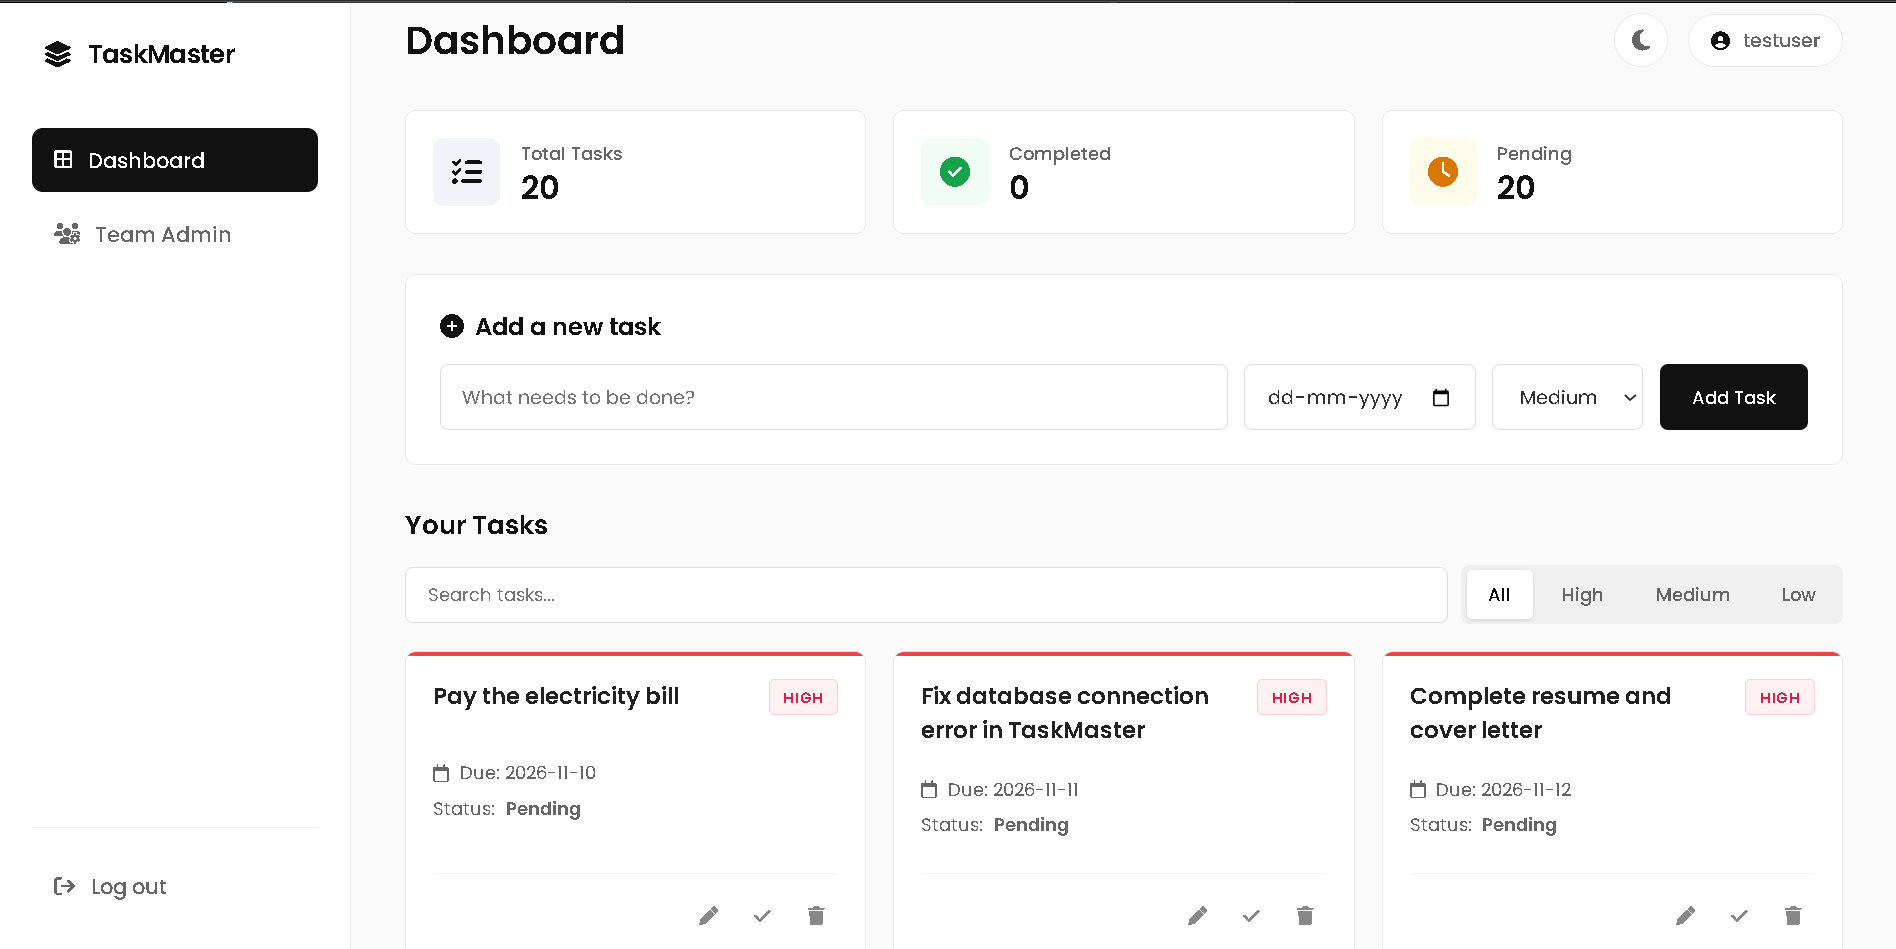
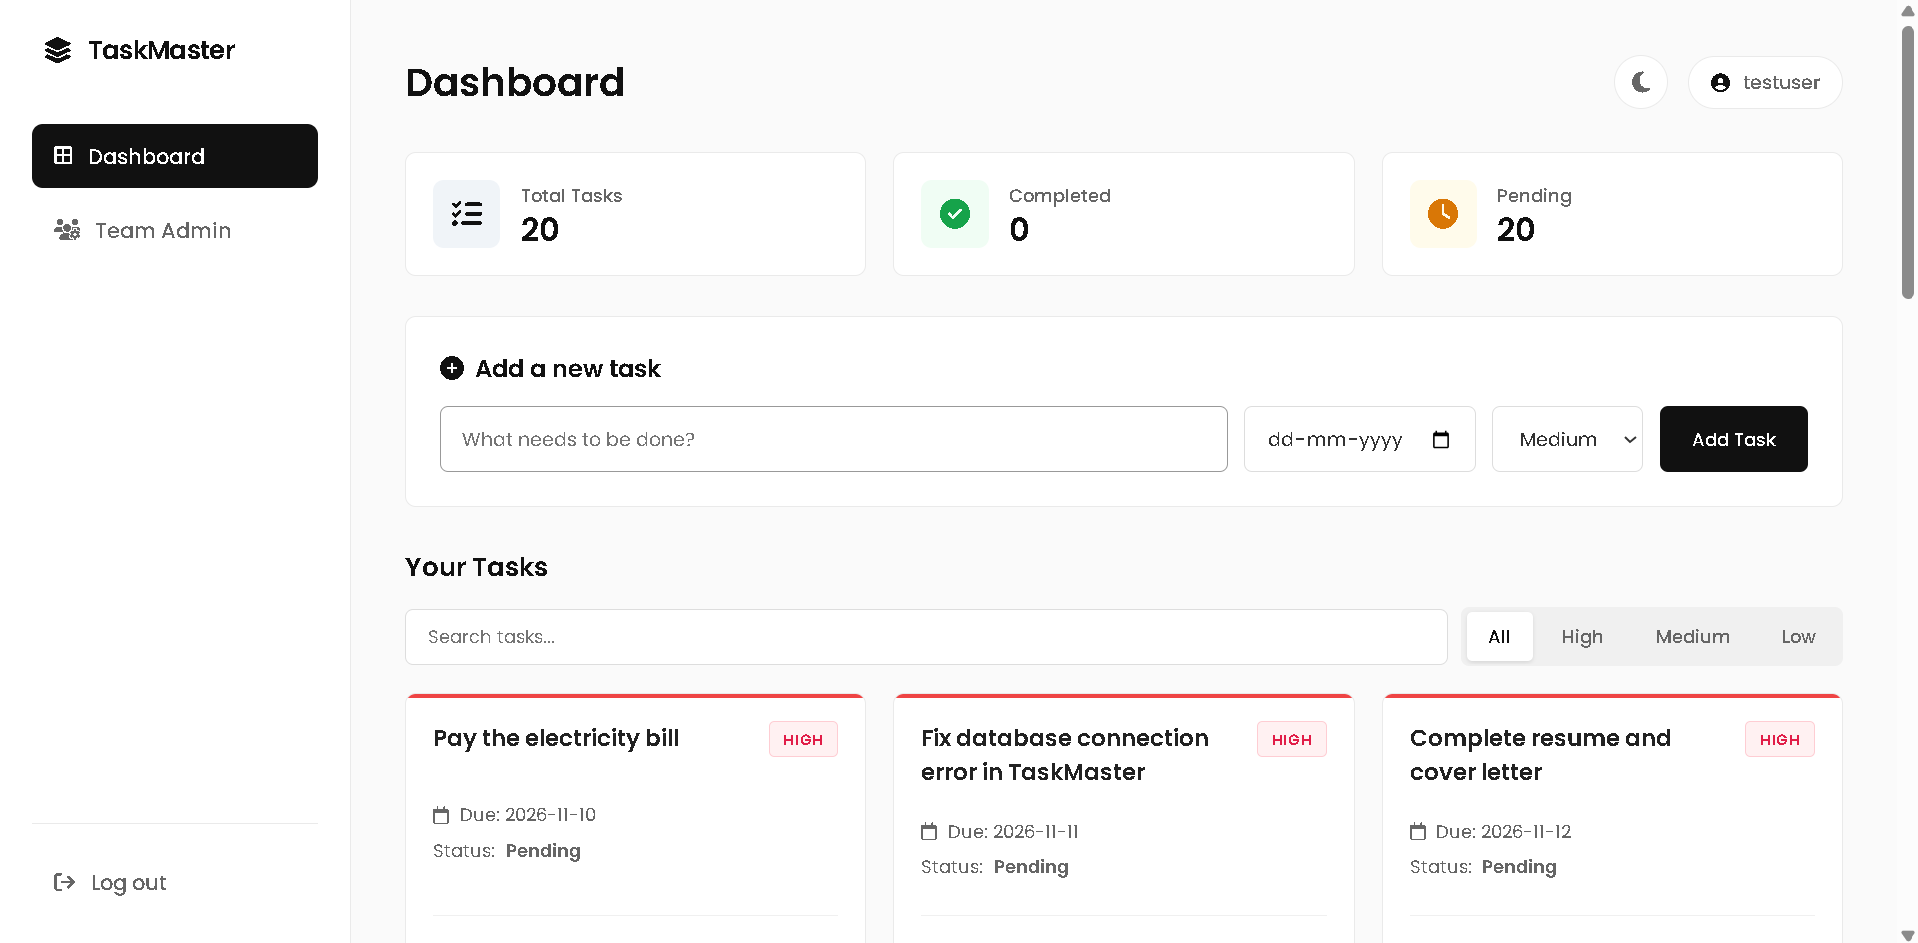
Finalize README with complete architecture summary

diff --git a/README.md b/README.md
@@ -1,57 +1,98 @@
-# TaskMaster - Task Manager App
+# TaskMaster - Multi-Tenant Task Manager
 
-A modern, full-stack task management web app where users can securely sign up, log in, and manage their daily tasks. Built with PHP, MariaDB, and JavaScript.
+A modern, full-stack task management web application featuring a multi-tenant architecture. Users can manage tasks in private "Solo" workspaces or collaborate in shared "Team" workspaces using secure join codes.
+
+Built with PHP, MariaDB, and vanilla JavaScript.
 
 ## 📸 App Showcase
 
-| Dashboard & Filtering | Login Page |
+| Dashboard (Light Mode) | Dashboard (Dark Mode) |
 | :---: | :---: |
-| <img src="Screenshots/dashboard.png" width="400" alt="Dashboard"> | <img src="Screenshots/login.png" width="400" alt="Login"> |
+| <img src="Screenshots/dashboard.png" width="400" alt="Dashboard Light"> | <img src="Screenshots/darkmode.png" width="400" alt="Dashboard Dark"> |
 
-| Register Page | Edit Task |
+| Team Admin (RBAC) | Edit Task |
 | :---: | :---: |
-| <img src="Screenshots/register.png" width="400" alt="Register"> | <img src="Screenshots/edit.png" width="400" alt="Edit Task"> |
+| <img src="Screenshots/team.png" width="400" alt="Team Admin"> | <img src="Screenshots/edit.png" width="400" alt="Edit Task"> |
 
-## Features
+| Login & Team Join | Register |
+| :---: | :---: |
+| <img src="Screenshots/login.png" width="400" alt="Login"> | <img src="Screenshots/register.png" width="400" alt="Register"> |
+
+## ✨ Key Features
+- **Multi-Tenant Workspaces:** Create a private Solo workspace, or generate a secure code to invite team members to a shared workspace.
+- **Role-Based Access Control (RBAC):** Workspace Admins have a dedicated dashboard to promote members to Admins, demote them, or remove them from the team.
 - **Authentication:** Secure signup and login (passwords hashed with `password_hash`).
 - **CRUD Operations:** Add, edit, delete, and mark tasks as complete.
 - **Real-time Filtering:** Instantly search tasks and filter by priority (High, Medium, Low) using JavaScript.
-- **Modern UI:** A clean, minimalist, responsive design using custom CSS and FontAwesome icons.
-- **Data Isolation:** Each user has a private dashboard and can only see their own tasks.
+- **Premium Minimalist UI:** A clean, responsive black-and-white design featuring a dark mode toggle and custom interactive modals.
 
-## Tech Stack
+## 🛠 Tech Stack
 - **Backend:** PHP 8
 - **Database:** MariaDB (accessed securely using PDO)
 - **Frontend:** HTML, CSS, JavaScript
 - **Server:** XAMPP (local development)
 
-## Security Practices
-- Passwords hashed with `password_hash` and checked with `password_verify`.
-- Prepared statements (PDO) to prevent SQL injection.
-- Output escaped with `htmlspecialchars` to prevent XSS.
-- Session ID regenerated after login to prevent session hijacking.
-- Every edit, delete, and update is checked against the logged-in user's ID to prevent unauthorized access.
+## 🔒 Security Practices
+- **Password Security:** Passwords are hashed with `password_hash()` and verified with `password_verify()`.
+- **SQL Injection Protection:** All database queries use PDO Prepared Statements.
+- **XSS Protection:** User input is escaped using `htmlspecialchars()` before rendering.
+- **Session Security:** Session IDs are regenerated upon login to prevent session fixation/hijacking.
+- **Data Isolation:** Database queries strictly enforce `workspace_id` checks, ensuring users can only access data belonging to their active workspace.
+- **Environment Variables:** Sensitive database credentials are stored in a `.env` file and kept out of version control via `.gitignore`.
 
-## How to Run Locally
-1. Install XAMPP and start **Apache** and **MySQL** in the XAMPP Control Panel.
-2. Put this project folder inside `C:\xampp\htdocs\` (or create a junction link).
-3. Open `http://localhost/phpmyadmin`, create a database named `task_manager`, and run this SQL:
+## 🚀 How to Run Locally
 
-```sql
-CREATE TABLE users (
-    id INT AUTO_INCREMENT PRIMARY KEY,
-    username VARCHAR(50) NOT NULL UNIQUE,
-    password_hash VARCHAR(255) NOT NULL,
-    created_at TIMESTAMP DEFAULT CURRENT_TIMESTAMP
-);
+1. Install **XAMPP** and start **Apache** and **MySQL** in the XAMPP Control Panel.
+2. Clone this repository into your `C:\xampp\htdocs\` folder (or create a junction link).
+3. Open `http://localhost/phpmyadmin`, create a database named `task_manager`, and import the provided `database.sql` file.
+4. Rename `.env.example` to `.env` (or create a `.env` file) in the root directory and add your database credentials:
+   ```env
+   DB_HOST=localhost
+   DB_PORT=3306
+   DB_NAME=task_manager
+   DB_USER=root
+   DB_PASS=
 
-CREATE TABLE tasks (
-    id INT AUTO_INCREMENT PRIMARY KEY,
-    user_id INT NOT NULL,
-    title VARCHAR(100) NOT NULL,
-    due_date DATE NULL,
-    priority ENUM('High','Medium','Low') NOT NULL DEFAULT 'Medium',
-    is_done TINYINT(1) NOT NULL DEFAULT 0,
-    created_at TIMESTAMP DEFAULT CURRENT_TIMESTAMP,
-    FOREIGN KEY (user_id) REFERENCES users(id) ON DELETE CASCADE
-);
+🧠 Project Summary & Architecture
+This project was built to demonstrate a deep understanding of relational databases, secure authentication, and Role-Based Access Control (RBAC).
+
+How the Multi-Tenant Logic Works:
+Unlike a standard to-do app where tasks belong to a single user_id, TaskMaster uses a workspace_id architecture.
+
+When a user registers, a new Workspace is automatically created for them, and they are assigned the admin role in the workspace_members table.
+
+Every task is tied to a workspace_id, not just a user.
+
+When a user enters a Team Code at login, they are added to that specific workspace_id as a member.
+
+This means anyone in that workspace can see the tasks, but only users with the admin role can access team.php to manage members.
+
+Database Design (3-Tier Relationship):
+
+users (Stores account credentials)
+
+workspaces (Stores the team/workspace info)
+
+workspace_members (A pivot table linking users to workspaces, storing their role)
+
+tasks (Linked to the workspace so the whole team can see them)
+
+This architecture allows a single user to be an Admin of their own Solo workspace, and a Member of someone else's Team workspace at the same time.
+
+.
+
+📂 Project Structure
+File	        Purpose
+db.php	        Secure database connection using .env
+register.php	User registration and auto-workspace creation
+login.php	    Authentication (handles Solo vs. Team login)
+index.php	    Main task dashboard (Filtering, Stats, CRUD)
+team.php	    Admin dashboard (Member management & Access control)
+edit.php	    Edit task interface with custom modals
+toggle.php	    Mark task as complete/incomplete
+delete.php	    Delete a task
+theme.js	    Dark mode toggle logic
+
+📄 License
+All rights reserved. This code is for viewing and portfolio purposes only.
+
